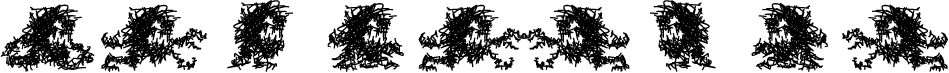
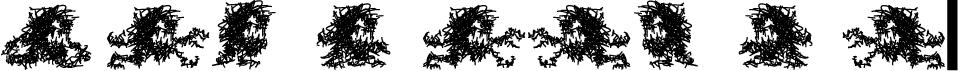
Added new sprites for enemys and player

diff --git a/src/js/preloader.js b/src/js/preloader.js
@@ -18,8 +18,8 @@
       this.load.image('creditsBackground', 'assets/creditsBackground.png');
       this.load.spritesheet('buttonPlay', 'assets/buttonPlay.png', 278, 137);
 
-      this.load.spritesheet('boy', 'assets/boymoving.png', 112, 139);
-      this.load.spritesheet('enemy', 'assets/enemy1moving.png', 98, 73);
+      this.load.spritesheet('boy', 'assets/boymoving.png', 57, 70);
+      this.load.spritesheet('enemy', 'assets/enemy1moving.png', 105, 71);
       this.load.spritesheet('buttonCredits', 'assets/buttonCredits.png', 278, 127);
       this.load.spritesheet('buttonBack', 'assets/buttonBack.png', 234, 107);
       this.load.tilemap('map', 'assets/map.json', null, Phaser.Tilemap.TILED_JSON);

diff --git a/src/js/game.js b/src/js/game.js
@@ -84,6 +84,7 @@
       for (var i = 0, l = this.enemys.length; i < l; i++)
       {
         this.physics.arcade.collide(this.enemys[i].enemySprite, this.layer);
+        this.enemys[i].enemySprite.body.setSize(80,70,0,0);
         //enemys move
         //right
         if( (this.enemys[i].enemyDir) && ( this.enemys[i].enemyX + this.enemys[i].enemyMove > this.enemys[i].enemySprite.body.x ) )
@@ -125,7 +126,7 @@
 
       this.boy.spriteBoy.frame = 0;
     }
-      this.boy.spriteBoy.body.setSize(84,120,0,0);
+      this.boy.spriteBoy.body.setSize(57,70,0,0);
       this.boy.spriteBoy.body.velocity.x = 0;
 
     if (this.cursors.up.isDown)
